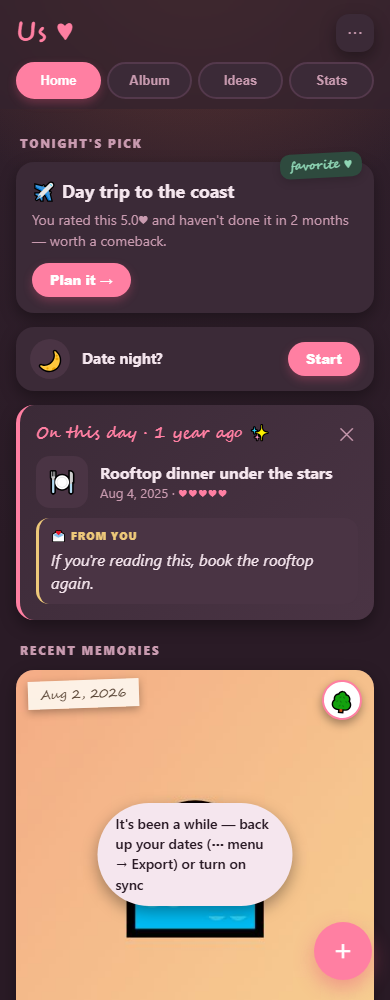
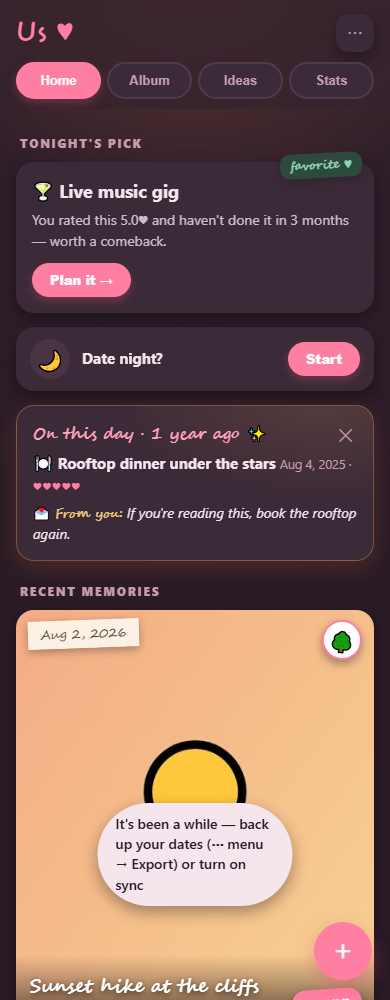
Restyle Home + Suggest cards in the Golden Hour language (approved mock home-b1)
Kills the three side-tab left borders: the On-this-day memory card gets the
warm amber-glow treatment and collapses to two dense lines with the capsule
note inline; Suggest cards drop the left border (the New/Favorite pill
already carries the distinction); sticker-tags follow one placement rule;
card body text lifted past AA contrast.

diff --git a/css/styles.css b/css/styles.css
@@ -123,10 +123,10 @@ body {
 /* Sticker tags (tilted labels on cards) */
 .sticker-tag {
   position: absolute; top: -9px; right: 12px; padding: 3px 10px; border-radius: 10px;
-  font: 700 12px var(--cursive); transform: rotate(3deg);
+  font: 700 12px var(--cursive); transform: rotate(-3deg); /* one placement rule for every tag */
   box-shadow: 0 3px 8px rgba(0, 0, 0, .15);
 }
-.sticker-tag.mint { background: var(--mint-bg); color: var(--mint-fg); transform: rotate(-3deg); }
+.sticker-tag.mint { background: var(--mint-bg); color: var(--mint-fg); }
 .sticker-tag.butter { background: var(--butter-bg); color: var(--butter-fg); }
 
 /* Home hero card */
@@ -289,9 +289,7 @@ input:focus, textarea:focus, select:focus { outline: 2px solid var(--accent); bo
 .slider-row { display: flex; align-items: center; gap: 12px; margin: 6px 0 2px; }
 .slider-row input[type=range] { flex: 1; accent-color: var(--accent); }
 .slider-ends { display: flex; justify-content: space-between; font-size: 12px; font-weight: 600; color: var(--muted); }
-.sug-card { border-left: 4px solid var(--accent); position: relative; }
-.sug-card.explore { border-left-color: var(--accent); }
-.sug-card.exploit { border-left-color: var(--good); }
+.sug-card { position: relative; } /* New/Favorite lives in the .tag pill; no side border */
 .sug-head { display: flex; justify-content: space-between; align-items: baseline; gap: 8px; }
 .sug-head h3 { margin: 0; font-size: 18px; }
 .sug-photos { display: flex; gap: 6px; margin: 10px 0 4px; overflow-x: auto; scrollbar-width: none; }
@@ -301,7 +299,7 @@ input:focus, textarea:focus, select:focus { outline: 2px solid var(--accent); bo
 .tag { font: 700 12px var(--cursive); padding: 3px 10px; border-radius: 10px; white-space: nowrap; }
 .tag.explore { background: var(--butter-bg); color: var(--butter-fg); display: inline-block; transform: rotate(2deg); }
 .tag.exploit { background: var(--mint-bg); color: var(--mint-fg); display: inline-block; transform: rotate(-2deg); }
-.sug-reason { color: var(--muted); font-size: 14px; margin: 8px 0 12px; }
+.sug-reason { color: var(--text); opacity: .78; font-size: 14px; margin: 8px 0 12px; } /* lifted past AA on card bg */
 .sug-meta { display: flex; gap: 14px; font-size: 13px; color: var(--muted); margin-bottom: 12px; flex-wrap: wrap; }
 
 /* History — control stack collapsed to two rows (Release triage backlog, v2.1.0) */
@@ -414,9 +412,17 @@ input:focus, textarea:focus, select:focus { outline: 2px solid var(--accent); bo
 .cmt-input button { border: none; border-radius: 50%; width: 36px; height: 36px; background: var(--accent); color: #fff; font-size: 15px; cursor: pointer; flex: none; }
 
 /* On this day memory card */
-.memory-card { border-left: 4px solid var(--accent); background: linear-gradient(135deg, var(--card), var(--card-2)); }
-.memory-header { display: flex; justify-content: space-between; align-items: center; margin-bottom: 10px; }
-.memory-title { font: 700 16px var(--cursive); color: var(--accent); }
+/* the one glowing thing on screen: warm lamplight corner, thin amber border */
+.memory-card {
+  background: radial-gradient(90% 90% at 85% 0%, rgba(244, 161, 93, .14), transparent 65%), var(--card);
+  border: 1px solid rgba(244, 161, 93, .35);
+  box-shadow: 0 8px 22px rgba(226, 112, 58, .18);
+}
+.memory-header { display: flex; justify-content: space-between; align-items: center; margin-bottom: 6px; }
+.memory-title { font: 700 16px var(--cursive); color: var(--accent-2); }
+.memory-line { font-size: 15px; }
+.memory-line .sub { color: var(--muted); font-size: 12.5px; }
+.memory-line .hearts { color: var(--accent); letter-spacing: 1px; }
 .memory-dismiss { background: none; border: none; color: var(--muted); font-size: 18px; cursor: pointer; padding: 0 4px; }
 .memory-item { margin-bottom: 8px; }
 .memory-item:last-child { margin-bottom: 0; }
@@ -548,15 +554,9 @@ input:focus, textarea:focus, select:focus { outline: 2px solid var(--accent); bo
   font-size: 13px; font-weight: 700; color: var(--butter-fg);
 }
 .capsule-head .when { margin-left: auto; font-size: 11px; font-weight: 600; color: var(--muted); }
-.capsule-memory {
-  margin-top: 10px; padding: 10px 12px;
-  background: var(--card-2); border-radius: 13px;
-  border-left: 3px solid var(--butter-fg);
-}
-.capsule-memory .from {
-  font-size: 11px; font-weight: 800; text-transform: uppercase; letter-spacing: .08em;
-  color: var(--butter-fg); margin-bottom: 4px;
-}
+/* capsule note: inline line inside the memory card, no sub-card frame */
+.capsule-memory { margin-top: 6px; font-size: 14px; }
+.capsule-memory .from { font: 700 12.5px var(--cursive); color: var(--butter-fg); margin-right: 4px; }
 .capsule-memory .msg { font-style: italic; color: var(--text); }
 
 /* Log sheet (full-screen overlay from the ＋ button) */

diff --git a/design/current.html b/design/current.html
@@ -41,7 +41,7 @@
     <div class="notes"><ul>
       <li><b>App chrome</b> — the "Us ♥" header, ⋯ menu button and the four pill tabs (Home / Album / Ideas / Stats) are sticky; they stay visible while scrolling.</li>
       <li><b>Tonight's pick</b> — the top result from the suggestion engine, with a sticker tag ("favorite ♥" or "new!") and the reason it was picked. "Plan it →" jumps to the Ideas tab.</li>
-      <li><b>On this day</b> — memory card shown when a past date matches today's month/day in a prior year; dismissible per session. Entries with a time-capsule note show it inside the card as a gold-bordered "💌 From you" panel, exactly one year after it was written.</li>
+      <li><b>On this day</b> — memory card shown when a past date matches today's month/day in a prior year; dismissible per session. Styled as the one glowing card on screen (warm amber corner glow + thin amber border, Golden Hour redesign Aug 2026): the entry is a single dense line (emoji + title + date + hearts), and a time-capsule note appears inline below it with a cursive butter "💌 From you:" prefix, exactly one year after it was written.</li>
       <li><b>Recent memories</b> — the three latest entries as edge-to-edge photo cards (1 = full-bleed, 2 = 50/50, 3+ = big-left mosaic with "+N"; all the same height, emoji banner when photoless). Metadata sits ON the photo as stickers: date tape strip (top-left), category badge (top-right), cursive title + category caption with the cost <b>tier pill</b> over a bottom scrim, hearts pill (bottom-right, my rating → partner's → legacy), and the vibe word as a small tape label when set. Tapping the card jumps to the Album tab with that date expanded — no inline Edit/Delete.</li>
       <li><b>🌙 Date night?</b> card (between Tonight's pick and On this day) — "Start" begins a Date Night session (Roadmap #7). While active it's replaced everywhere by a pinned banner (moon glow, elapsed time · photo count, End pill) and the <b>＋ FAB becomes a camera</b> that saves photos straight into the session. "End" clears the session and opens the log sheet pre-filled with date/duration/photos.</li>
       <li><b>＋ FAB</b> (bottom-right) opens the full-screen log sheet from any tab; becomes a camera button during an active Date Night session.</li>

diff --git a/js/ui.js b/js/ui.js
@@ -522,16 +522,8 @@ function renderHome() {
         const yearsAgo = new Date().getFullYear() - new Date(entryTimeMs(e)).getFullYear();
         return `<div class="memory-item">
           ${singleAgo === null ? `<div class="memory-ago">${yearsAgo} year${yearsAgo !== 1 ? "s" : ""} ago</div>` : ""}
-          <div class="entry" style="pointer-events:none">
-            <div class="thumb">${catEmoji(e.category)}</div>
-            <div class="meta"><h4>${escHtml(e.title)}</h4>
-              <div class="sub">${fmtDate(e.date)} · ${heartsHtml(e.enjoyment)}</div>
-            </div>
-          </div>
-          ${e.capsule ? `<div class="capsule-memory">
-            <div class="from">💌 From you</div>
-            <div class="msg">${escHtml(e.capsule)}</div>
-          </div>` : ""}
+          <div class="memory-line">${catEmoji(e.category)} <b>${escHtml(e.title)}</b> <span class="sub">${fmtDate(e.date)} · ${heartsHtml(e.enjoyment)}</span></div>
+          ${e.capsule ? `<div class="capsule-memory"><span class="from">💌 From you:</span><span class="msg">${escHtml(e.capsule)}</span></div>` : ""}
         </div>`;
         // ponytail: label is always "From you" — date docs carry no author uid; add author names when sync stamps one
       }).join("")}
